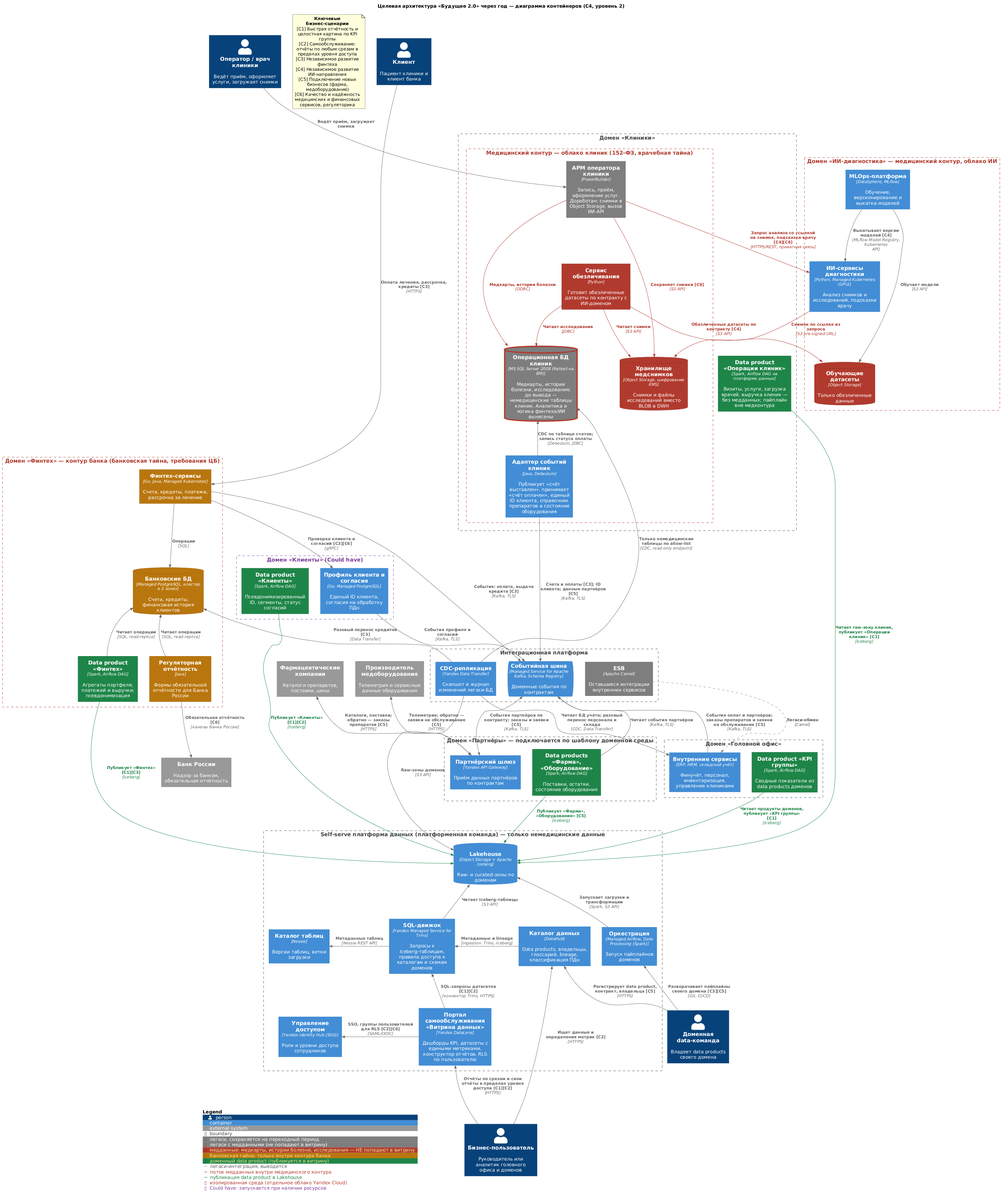
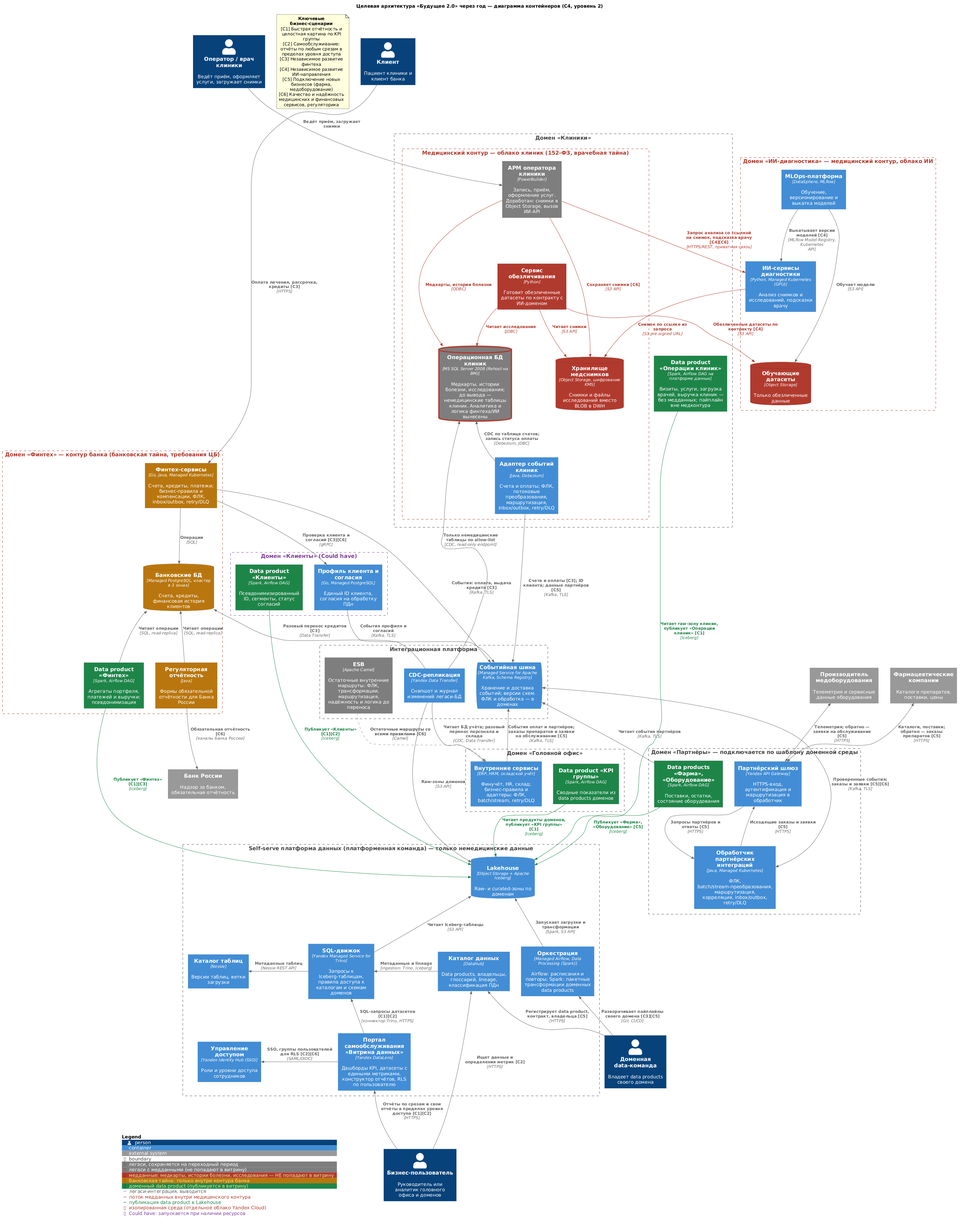
Task1: явно описать перенос функций ESB в целевую архитектуру

diff --git a/Task1/README.md b/Task1/README.md
@@ -37,8 +37,31 @@
    - уровни доступа берутся из групп Yandex Identity Hub;
    - каталог DataHub помогает найти нужный data product и понять, как считается показатель.
 4. **Изолированные контуры.** Медицинские и банковские данные лежат в отдельных облаках Yandex Cloud. Каждое облако со своей сетью, ключами KMS и правами доступа.
-5. **Событийная интеграция вместо интеграции точка-точка через DWH.** Домены обмениваются событиями через Managed Kafka с контрактами в Schema Registry. Данные из легаси забирает CDC (Yandex Data Transfer). ESB остаётся только для внутренних сервисов, которые ещё не переведены на события.
+5. **Поэтапный перенос функций ESB в домены и платформу.** Домены обмениваются событиями через Managed Kafka с контрактами в Schema Registry. ФЛК, трансформации, маршрутизация, надёжность и логика старых маршрутов получают явных владельцев и целевые компоненты, описанные ниже. Данные из легаси забирает CDC (Yandex Data Transfer). ESB сохраняет полный набор функций ещё не перенесённых внутренних маршрутов до проверки их замены.
 6. **Переносимые технологии.** Iceberg, Kafka, Kubernetes, PostgreSQL и S3-совместимое хранилище не привязывают компанию к одному провайдеру. Это снижает риск vendor lock-in при переезде в облако.
+
+## Переход от ESB к целевым компонентам
+
+ESB на Apache Camel рассматривается как исполняемый слой обработки: транспорт, форматно-логический контроль (ФЛК), пакетные и потоковые трансформации, маршрутизация, паттерны надёжности, интеграционная и бизнес-логика. Kafka отвечает за хранение и доставку событий; перенос транспорта сам по себе не заменяет остальные функции ESB. Точный состав правил фиксируется при инвентаризации маршрутов в первые два месяца.
+
+| Функция ESB | Куда переходит и как исполняется | Владелец и бизнес-эффект |
+|---|---|---|
+| ФЛК | Адаптер событий клиник, обработчик партнёрских интеграций и обработчики в доменных сервисах проверяют обязательные поля, типы, диапазоны и связи полей. Schema Registry хранит версии схем и правила совместимости; проверку сообщений выполняют producer/consumer. Правила предметной области (например, допустимость оплаты счёта) проверяет сервис домена. Невалидные сообщения изолируются в карантине с причиной | Доменные команды задают правила, платформа — общий формат ошибок. С3, С5, С6: ошибочные данные не запускают операции и не попадают в опубликованные продукты |
+| Пакетные трансформации | Доменные data products на Spark выполняют очистку, нормализацию, объединение и агрегирование данных; Airflow управляет расписанием, зависимостями и повторными запусками. Операционные пакетные обмены остаются в заданиях доменных адаптеров, без зависимости от аналитического Lakehouse | Data-команды и команды сервисов соответствующих доменов. С1, С5: отчётность ускоряется, новый бизнес не требует доработки DWH |
+| Потоковые трансформации | Долгоживущие обработчики Kafka в адаптере клиник, обработчике партнёров и доменных сервисах преобразуют сообщения, обогащают их разрешёнными справочниками и публикуют события целевого контракта. Исполняются в среде своего домена, отдельно от пакетных DAG | Доменные команды. С3, С5: изменения форматов и оперативная обработка развиваются независимо |
+| Маршрутизация | Партнёрский API Gateway направляет HTTPS-запросы в обработчик партнёров. Доменные адаптеры выбирают получателя по содержимому и публикуют события в согласованные Kafka topics; consumer groups определяют подписчиков. Синхронные вызовы идут в API доменов | Доменные команды поддерживают правила, платформа — topics и ACL. С4, С5: новые получатели подключаются без общего релиза ESB |
+| Паттерны надёжности | В сервисах и адаптерах: transactional outbox при публикации события вместе с изменением БД, дедупликация по event ID / inbox у потребителя, ограниченные retry с backoff, DLQ и управляемый replay. Для синхронных вызовов — timeout и circuit breaker; для пакетов — контрольные точки и идемпотентная загрузка | Платформа предоставляет шаблоны и мониторинг lag, ошибок и DLQ; домен отвечает за восстановление своего потока. С3, С6: повторная доставка не создаёт повторную оплату, сбои не теряют операции |
+| Интеграционная логика | Протокольные адаптеры, преобразование внешних идентификаторов, split/aggregate, корреляция запросов и ответов — в адаптере клиник, обработчике партнёров и адаптерах внутренних сервисов. Их контракты версионируются вместе с доменными сервисами | Команда домена-получателя, для партнёров — команда партнёрских интеграций. С5: особенности внешней системы не распространяются на все домены |
+| Бизнес-логика | Правила платежей, кредитов и компенсаций — в финтех-сервисах; медицинские правила — в контуре клиник; диагностическая логика — в ИИ-сервисах; правила учёта — во внутренних сервисах. Междоменный процесс координирует сервис домена-инициатора с явным состоянием и компенсациями. Аналитические расчёты — в data products | Команды соответствующих доменов. С3, С4, С6: независимые релизы и сохранение смысла операций при миграции |
+
+Медицинские payload, включая карантин, DLQ, журналы и пакетные промежуточные данные, остаются в медицинском контуре; банковские данные — в контуре банка. В общую Kafka публикуются только разрешённые контрактами события. Перенос функций ESB не открывает новый поток медданных в платформу аналитики.
+
+### Порядок переключения маршрутов
+
+1. **0–2 месяца: инвентаризация.** Платформенная и доменные команды составляют реестр маршрутов Camel: источники и получатели, ФЛК, обе формы трансформаций, правила маршрутизации, обработка ошибок, интеграционная и бизнес-логика, класс данных, SLA, владелец и целевой компонент. Правила фиксируются примерами входов и ожидаемых результатов, включая ошибки и повторы. Новая бизнес-логика в центральную ESB и DWH не добавляется.
+2. **2–12 месяцев: перенос по потокам.** Сначала реализуются целевые правила и механизмы надёжности, затем поток проверяется на контрактных и регрессионных сценариях. В теневом режиме сравниваются результаты старого и нового пути без повторных бизнес-операций. Перед переключением проверяются сбой получателя, повторная доставка, восстановление из DLQ и сверка количества сообщений, сумм и итоговых статусов.
+3. **Переключение и откат.** Для каждого потока задаются окно наблюдения и допустимые расхождения по SLA. Запись бизнес-результата выполняет только один активный путь; фиксируются граница переключения, обработанные event ID и остаток очередей. При нарушении критериев новый путь останавливается, результаты сверяются, старый маршрут возобновляется с учётом уже выполненных операций. Это исключает слепую повторную отправку платежей при откате.
+4. **Через год: ограниченный Retain.** Критичные потоки финтеха и ИИ и новые партнёрские подключения работают на целевых компонентах. В Camel остаются только ещё не перенесённые внутренние маршруты вместе с их ФЛК, трансформациями, логикой и обработкой ошибок. Для каждого остаточного маршрута назначены владелец и срок вывода. Маршрут отключается после приёмки доменом-получателем, сверки результатов, завершения окна наблюдения и обработки накопленных сообщений.
 
 ## Медицинские данные не попадают в витрину
 
@@ -76,7 +99,7 @@
 | Финтех (контур банка) | Финтех-сервисы, банковские БД, регуляторная отчётность для Банка России, data product «Финтех» | Команда банка |
 | Клиенты (Could have, П11) | Профиль клиента и согласия на обработку ПДн, data product «Клиенты» | Команда клиентского домена |
 | Головной офис | Внутренние сервисы (финучёт, персонал, инвентаризация), data product «KPI группы» | Финансы и аналитика головного офиса |
-| Партнёры | Партнёрский шлюз, data products «Фарма» и «Оборудование» | Команда партнёрских интеграций |
+| Партнёры | Партнёрский шлюз, обработчик партнёрских интеграций, data products «Фарма» и «Оборудование» | Команда партнёрских интеграций |
 | Интеграционная платформа | Событийная шина Kafka, CDC-репликация, ESB (легаси) | Платформенная команда |
 | Self-serve платформа данных | Портал «Витрина данных», SQL-движок Trino, Lakehouse, каталог таблиц, оркестрация, каталог данных, управление доступом | Платформенная команда, политики задаёт группа federated governance |
 
@@ -89,6 +112,6 @@
 | DWH на MS SQL Server 2008 | **Rehost** в медицинский контур как операционной БД клиник. В ней остаются медкарты, истории болезни, исследования и немедицинские таблицы клиник: пациенты, услуги, счета пациентов. Немедицинские таблицы реплицируются в Lakehouse через CDC.<br>Остальные данные переезжают к доменам-владельцам: кредиты и финансовая история — в банковские БД (разовая миграция Data Transfer), персонал и инвентаризация — во внутренние сервисы. Аналитика и логика финтеха и ИИ из БД вынесены. Вывод СУБД — отдельным проектом после года | В БД лежат медкарты и истории болезни, их перенос — самый рискованный шаг. Версия СУБД при переносе не обновляется по двум причинам: новые лицензии Microsoft в РФ труднодоступны, а АРМ на PowerBuilder привязан к текущей схеме и драйверам. Риск неподдерживаемой версии закрывается компенсирующими мерами: БД без внешнего доступа, единственный внешний путь — read-only CDC, резервное копирование. Целевая замена — PostgreSQL вместе с заменой АРМ |
 | АРМ на PowerBuilder | **Retain** на переходный период с минимальной доработкой: снимки сохраняются в объектное хранилище, анализ исследования запрашивается у ИИ-сервиса по REST вместо обмена через ESB | Операционная работа клиник не должна остановиться. Полная замена АРМ не влияет на цели года, а точечная доработка снимает нагрузку снимков с СУБД и зависимость ИИ от шины |
 | Power BI | **Retire** после переноса используемых отчётов в портал | Портал заменяет BI. Кастомизации поверх DWH не переносятся 1:1 |
-| ESB (Apache Camel) | **Retain** только для внутренних сервисов. Новые интеграции идут через Kafka | Постепенный перевод без риска для текущих обменов |
+| ESB (Apache Camel) | **Refactor** функций по таблице перехода выше; **Retain** остаточных внутренних маршрутов со всеми их правилами до приёмки замены. Новые потоки — через API, доменные обработчики и Kafka | Поэтапное переключение сохраняет ФЛК, трансформации, маршрутизацию, надёжность и бизнес-поведение; вывод транспорта не опережает перенос логики |
 | ИИ-сервисы (Python) | **Replatform** на Managed Kubernetes и MLOps-платформу | Независимый цикл обучения и выкатки моделей |
 | Финтех-сервисы (Go, Java) | **Rehost / Replatform** в отдельное облако банка | Требования ЦБ и банковская тайна, независимые релизы |

diff --git a/Task1/problems.md b/Task1/problems.md
@@ -20,7 +20,7 @@
 | П5 | BI на Power BI с большим количеством кастомизаций поверх DWH | Новые отчёты делает только центральная команда, конструктора для бизнес-пользователя нет. Есть риски лицензирования и доступности сервисов Microsoft в РФ | С2: самообслуживания нет. С1: каждый новый отчёт — заявка и ожидание |
 | П6 | DWH работает на MS SQL Server 2008 | Поддержка версии, включая расширенную, завершена в 2019 году, обновления безопасности не выходят. Оборудование on-prem устаревает | С6: открытые уязвимости в БД с медицинскими и финансовыми данными. Растут затраты на поддержку устаревшего оборудования |
 | П7 | Банк делит инфраструктуру, шину и хранилище с медицинскими и внутренними системами | Нет отдельного контура для банковской тайны и требований ЦБ к защите информации и операционной надёжности | С3: аудит и изменения банка затрагивают всю компанию. С6: регуляторный риск для банковской лицензии |
-| П8 | Интеграции через устаревшую ESB и через DWH по схеме точка-точка | Шина — единая точка отказа. Контрактов на данные нет. Каждая новая интеграция — доработка маршрутов ESB и схемы DWH | С5: подключение фармы и производителя оборудования потребует доработки DWH и шины. С3, С4: интеграции финтеха и ИИ зависят от общей шины |
+| П8 | Обмены, ФЛК, трансформации, маршрутизация, надёжность и логика связаны с центральной ESB | Шина — единая точка отказа. Контрактов на данные нет. Каждая новая интеграция — доработка маршрутов ESB и схемы DWH. Перенос только транспорта в Kafka оставит проверки, преобразования и бизнес-правила без исполнителя | С5: подключение фармы и производителя оборудования потребует доработки DWH и шины. С3, С4: интеграции финтеха и ИИ зависят от общей шины |
 | П9 | Инфраструктура on-prem без эластичного масштабирования, геораспределения и плана DR | Отказ DWH одновременно останавливает работу операторов клиник, отчётность и интеграции финтеха. Под пиковую аналитическую нагрузку нельзя быстро добавить ресурсы | С6: простой клиник и банковских сервисов. С1: отчёты замедляются при росте объёма данных |
 | П10 | ИИ-направление получает медданные через ESB и DWH | Нет обезличенных датасетов для обучения и MLOps-конвейера. Выпуск новой модели зависит от выгрузок из DWH | С4: медленный вывод ИИ-сервисов. С6: качество диагностики ограничено, обработка медданных вне контролируемого контура |
 | П11 | Нет единого профиля клиента и реестра согласий | Пациент клиники и клиент банка — разные записи в разных моделях. Согласие на обработку ПДн для финансовых услуг не фиксируется централизованно | С3: нельзя быстро и законно предложить пациенту рассрочку или кредит на лечение. С6: риск обработки ПДн без согласия |
@@ -59,7 +59,7 @@
 | П5 | Н | С | Н | С | Нет — заменяется порталом после появления платформы |
 | П6 | Н | Н | С | В | Да — уязвимости не закрываются уже сейчас |
 | П7 | С | С | В | В | Да — регуляторный риск для банковской лицензии |
-| П8 | С | В | С | Н | Нет — критично к моменту подключения партнёров |
+| П8 | С | В | В | Н | Да — реестр функций и владельцы нужны для согласования архитектуры через 2 месяца; перенос выполняется поэтапно |
 | П9 | С | Н | В | С | Нет — закрывается переездом в облако по плану |
 | П10 | С | В | С | С | Нет — зависит от разделения медданных (П3) |
 | П11 | С | С | Н | С | Нет |
@@ -71,7 +71,7 @@
 | Категория | Проблемы | Обоснование связи с целями бизнеса |
 |---|---|---|
 | **Must have** — без решения цели года недостижимы | П1, П2, П3, П4, П7 | **П1** — главная задача руководства: новые направления подключаются без бизнес-логики в DWH, финтех и ИИ развиваются независимо (выручка, TTM).<br>**П2** — отчёты за часы прямо противоречат цели быстрой отчётности и целостной картины по KPI.<br>**П3** и **П4** — без разделения медданных и модели доступа портал самообслуживания нельзя открыть сотрудникам.<br>**П7** — изоляция банка обязательна для сохранения лицензии и для независимого развития финтеха |
-| **Should have** — важно, но цели года достижимы с временным обходным решением | П5, П6, П8, П9, П10 | **П5** — Power BI работает, пока отчёты переносятся в портал.<br>**П6** — риск снижается компенсирующими мерами: изоляцией БД в медконтуре, снятием аналитической нагрузки и внешних интеграций. Полный вывод СУБД — после года.<br>**П8** — новые интеграции сразу идут через Kafka, ESB доживает на внутренних сервисах.<br>**П9** — закрывается переездом в облако по мере миграции доменов.<br>**П10** — ускоряет ИИ-направление, но опирается на решённую П3 |
+| **Should have** — важно, но цели года достижимы с временным обходным решением | П5, П6, П8, П9, П10 | **П5** — Power BI работает, пока отчёты переносятся в портал.<br>**П6** — риск снижается компенсирующими мерами: изоляцией БД в медконтуре, снятием аналитической нагрузки и внешних интеграций. Полный вывод СУБД — после года.<br>**П8** — полный вывод ESB можно отложить: остаточные внутренние маршруты сохраняются со всеми правилами. Для каждого переключаемого потока перенос ФЛК, трансформаций, маршрутизации, надёжности и логики обязателен до отключения старого пути.<br>**П9** — закрывается переездом в облако по мере миграции доменов.<br>**П10** — ускоряет ИИ-направление, но опирается на решённую П3 |
 | **Could have** — желательно, если хватит ресурсов | П11 | Единый профиль клиента и согласия открывают кросс-продажи медицинских и финансовых услуг. Для запуска портала и разделения доменов это не обязательно |
 | **Won't have (в этом году)** | П12, П13 | **П12** — бизнес допускает временное сохранение легаси, замена АРМ не влияет на цели года.<br>**П13** — неиспользуемые и дублирующиеся отчёты Power BI в портал не переносятся и выводятся вместе с Power BI |
 
@@ -79,8 +79,10 @@
 
 |  | **Срочно** | **Не срочно** |
 |---|---|---|
-| **Важно** | **Делать сейчас (0–2 месяца):**<br>П1 — границы доменов и план переноса логики из DWH<br>П3 — разделение медицинских и немедицинских данных<br>П4 — модель доступа и каталог данных<br>П7 — изолированный контур банка<br>П6 — компенсирующие меры для SQL Server 2008 | **Планировать (2–12 месяцев):**<br>П2 — платформа данных и перенос отчётности<br>П5 — замена Power BI порталом<br>П8 — событийная шина и контракты<br>П9 — облако, геораспределение и DR<br>П10 — MLOps и обезличенные датасеты<br>П11 — профиль клиента и согласия |
+| **Важно** | **Делать сейчас (0–2 месяца):**<br>П1 — границы доменов и план переноса логики из DWH<br>П3 — разделение медицинских и немедицинских данных<br>П4 — модель доступа и каталог данных<br>П7 — изолированный контур банка<br>П6 — компенсирующие меры для SQL Server 2008<br>П8 — инвентаризация функций ESB, владельцы и критерии переключения | **Планировать (2–12 месяцев):**<br>П2 — платформа данных и перенос отчётности<br>П5 — замена Power BI порталом<br>П8 — поэтапный перенос функций ESB, событийная шина и контракты<br>П9 — облако, геораспределение и DR<br>П10 — MLOps и обезличенные датасеты<br>П11 — профиль клиента и согласия |
 | **Не важно** | **Делегировать:**<br>П12 — сопровождение АРМ PowerBuilder передаётся подрядчику на переходный период | **Исключить:**<br>П13 — неиспользуемые и дублирующиеся отчёты Power BI не переносятся |
+
+П8 разделена на срочную инвентаризацию (0–2 месяца) и плановый перенос функций (2–12 месяцев). Категория Should относится к полному выводу центральной ESB; сохранение бизнес-поведения и надёжности — обязательное условие переключения любого маршрута.
 
 П11 в MoSCoW отнесена к Could, но в матрице находится в квадранте «Важно, не срочно». Влияние на выручку от кросс-продаж реальное, поэтому задача важна, но цели года без неё достижимы. Её делают, если после Must и Should остаются ресурсы.
 
@@ -97,7 +99,7 @@
 | П5 | Портал «Витрина данных» | Инвентаризация отчётов Power BI | Используемые отчёты перенесены, Power BI выведен |
 | П6 | Rehost операционной БД клиник в медконтур без внешнего доступа, кроме read-only CDC | Сетевая изоляция и резервное копирование | БД работает в облаке в изолированном контуре, кредиты и финансовая история перенесены в контур банка, план замены СУБД на PostgreSQL утверждён |
 | П7 | Отдельное облако банка, Managed PostgreSQL в трёх зонах | Целевой контур банка спроектирован | Финтех-сервисы и банковские данные в изолированном контуре |
-| П8 | Managed Kafka со Schema Registry, партнёрский шлюз, CDC | Стандарт контрактов событий и data products | Новые интеграции и партнёры — только через Kafka и шлюз, ESB обслуживает остаток внутренних обменов |
+| П8 | Kafka со Schema Registry, доменные сервисы и адаптеры, обработчик партнёров, Spark/Airflow; [распределение функций ESB](README.md#переход-от-esb-к-целевым-компонентам) | Реестр маршрутов, ФЛК, трансформаций, логики и механизмов надёжности; владельцы, контракты и критерии переключения | Критичные и новые потоки выполняются целевыми компонентами с проверенным сохранением правил и надёжности; Camel сохраняет весь функционал остаточных внутренних маршрутов до их приёмки |
 | П9 | Облачные среды доменов, развёртывание через IaC, зоны доступности | Шаблон доменной среды (IaC) | Критичные системы развёрнуты в нескольких зонах, план DR проверен |
 | П10 | Сервис обезличивания, обучающие датасеты, MLOps-платформа | Контракт на обезличенные датасеты согласован | Модели обучаются и выкатываются в ИИ-домене без участия команды DWH |
 | П11 | Профиль клиента и согласия | — | Единый ID клиента и реестр согласий используются финтехом и клиниками |
